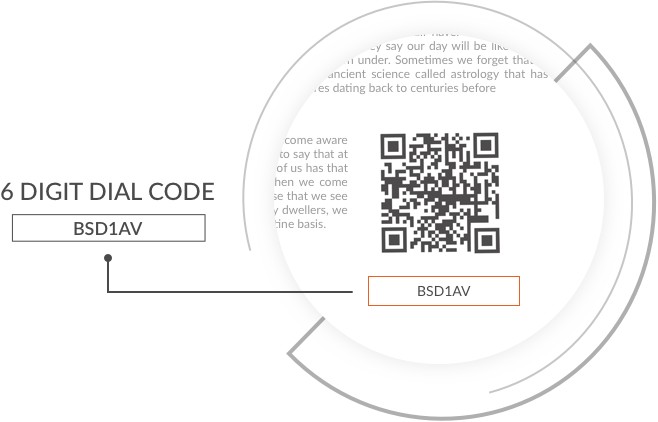
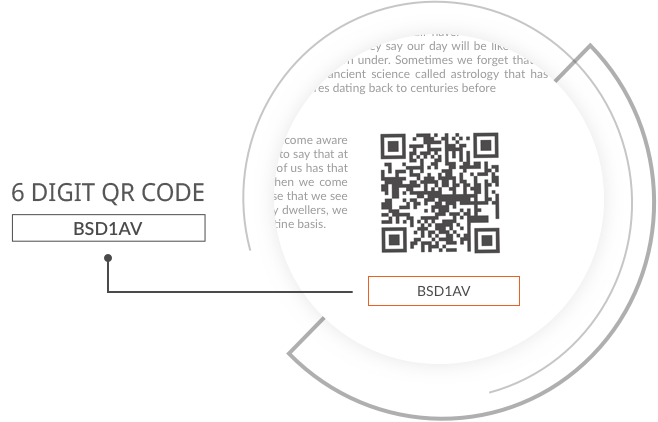
Issue #SB-9881 fix :Rename DIAL code to QR code in the DIKSHA portal

Changed region(s): [[0.0, 0.4313, 0.3343, 0.4929]]

diff --git a/src/app/client/src/app/modules/public/components/get/get.component.html b/src/app/client/src/app/modules/public/components/get/get.component.html
@@ -7,7 +7,7 @@
       <div class="column left floated left aligned dial-section-header">
         <h1 class="ui medium header pt-10  dial-section-header-text"> Explore content on {{instanceName}}
         <div class="sub header pt-10 dial-section-subheader-text"> 
-          Start exploring content by searching for content or by searching for a Dial code
+          Start exploring content by searching for content or by searching for a QR code
         </div>
       </h1>
       <div class="ui fluid icon input dial-section-input">
@@ -17,12 +17,12 @@
     </div>
     <div class="column">
       <div class="ui basic segment">
-        <h5 class="ui tiny center aligned icon header dial-section-header-text">What's a DIAL code?</h5>
+        <h5 class="ui tiny center aligned icon header dial-section-header-text">What's a QR code?</h5>
         <div class="ui large image">
             <img src="{{'assets/images/Dialcode.png' | cdnprefixurl}}">
           </div>
           <div class="sub header pt-10 dail-section-meta text-align-center "> 
-          A Dial code is the 6 digit alphanumeric code found under a QR code in your text book.
+          A QR code is the 6 digit alphanumeric code found under a QR code in your text book.
         </div>
       </div>
     </div>
